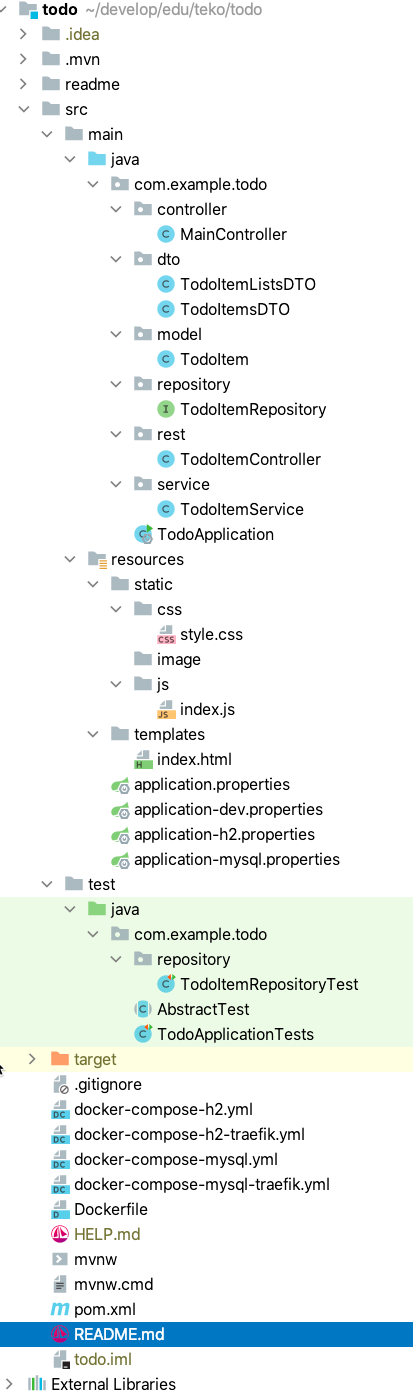
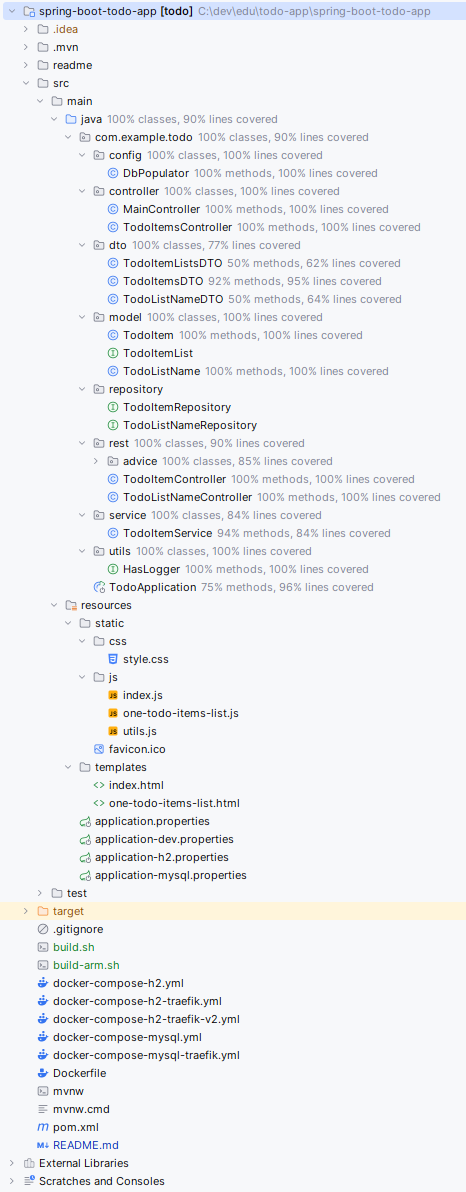
add new project structure update the introduction of the readme

Changed region(s): [[0.0, 0.0, 1.0, 1.0]]

diff --git a/README.md b/README.md
@@ -1,6 +1,131 @@
-# Todo App Spring Boot Thymeleaf REST jQuery
+# Spring Boot To-Do List Application
 
-A single page application by using JSON with jQuery.
+## Overview
+
+This is a Spring Boot MVC application for managing To-Do lists and their items. The frontend is implemented using Thymeleaf and jQuery, while the backend exposes a REST API for managing To-Do lists and items.
+
+## Features
+
+- **To-Do List Management:**
+    - Create, rename, and delete To-Do lists.
+    - View all To-Do lists on the main page.
+- **To-Do Item Management:**
+    - View, add, edit, and delete items within a selected To-Do list.
+    - Toggle the completion status of items.
+- **Navigation:**
+    - Click on a To-Do list to navigate to its items page.
+    - A back button allows returning to the main page.
+- **Testing:**
+    - Comprehensive unit tests for controllers and services.
+
+## Technologies Used
+
+- **Backend:** Spring Boot, Spring MVC, Spring Data JPA
+- **Frontend:** Thymeleaf, jQuery, HTML, CSS
+- **Database:** H2 (in-memory, for development/testing)
+- **API Specification:** OpenAPI
+- **Testing:** JUnit, Mockito
+- **Containerization:** Docker
+
+## Installation
+
+### Prerequisites
+
+- Java 17+
+- Maven 3.8+
+- Docker (for containerized deployment)
+
+### Step 1: Clone the Repository
+
+```sh
+git clone https://github.com/mbachmann/spring-boot-todo-app.git
+cd spring-boot-todo-app
+```
+
+### Step 2: Build the Backend
+
+Compile and package the Spring Boot application:
+
+```sh
+mvn clean install
+```
+
+Run the application locally:
+
+```sh
+mvn spring-boot:run
+```
+
+The application will start on `http://localhost:8080/`.
+
+### Step 3: Build the Frontend
+
+The frontend is integrated with Thymeleaf templates and does not require a separate build step. Ensure the application is running, and access it via the browser at `http://localhost:8080/`.
+
+### Step 4: Run Tests
+
+Execute unit tests using:
+
+```sh
+mvn test
+```
+
+### Step 5: Deploy with Docker
+
+To build and run the application in a Docker container:
+
+```sh
+docker build -t spring-boot-todo-app .
+docker run -p 8080:8080 spring-boot-todo-app
+```
+
+## Usage
+
+### Main Page (`index.html`)
+
+- Displays all To-Do lists.
+- Buttons to create, rename, and delete To-Do lists.
+- Clicking a list navigates to its items page.
+
+### To-Do Items Page (`todo-items.html`)
+
+- Displays all items of a selected To-Do list.
+- Options to add, edit, delete, and mark items as done.
+- Back button to return to the main page.
+
+## API Endpoints
+
+### To-Do Lists
+- `GET /api/v1/todolist-names` - Retrieve all To-Do list names.
+- `GET /api/v1/todolist-names/{id}` - Retrieve a specific To-Do list name.
+- `POST /api/v1/todolist-names` - Create a new To-Do list name.
+- `PUT /api/v1/todolist-names/{id}` - Rename a To-Do list name.
+- `DELETE /api/v1/todolist-names/{id}` - Delete a To-Do list name.
+
+### To-Do Items
+- `GET /api/v1/todo-items/item/{itemId}` - Retrieve a specific item.
+- `GET /api/v1/todo-items/list/{listId}` - Retrieve items of a list.
+- `GET /api/v1/todo-items/listids` - Retrieve all To-Do list IDs.
+- `GET /api/v1/todo-items/list` - Retrieve all To-Do lists.
+- `POST /api/v1/todo-items/new` - Add a new item.
+- `PUT /api/v1/todo-items/edit` - Edit an item.
+- `DELETE /api/v1/todo-items/delete/{id}` - Delete an item.
+- `PUT /api/v1/todo-items/state/{id}` - Toggle an item's completion status.
+
+## Contribution
+
+Contributions are welcome! Please fork the repository and create a pull request with your improvements.
+
+## License
+
+This project is licensed under the MIT License.
+
+## Author
+
+Maintained by [mbachmann](https://github.com/mbachmann).
+
+
+
 
 Content
 
@@ -52,7 +177,7 @@ _Spring Initializr_ generates a valid project structure with the following files
 - An empty _JUnit_ test class.
 - An empty Spring application configuration file: _application.properties_
 
-Choose Java SDK (can 8, 11, 14, etc):
+Choose Java SDK (can be 17, 21, etc):
 
 <br/>
 
@@ -78,14 +203,76 @@ Add the following libraries to the _pom.xml_ file:
      <!-- Open API  -->
   <dependency>
     <groupId>org.springdoc</groupId>
-    <artifactId>springdoc-openapi-ui</artifactId>
-    <version>1.6.8</version>
+    <artifactId>springdoc-openapi-starter-webmvc-ui</artifactId>
+    <version>2.8.5</version>
   </dependency>
   <dependency>
     <groupId>mysql</groupId>
     <artifactId>mysql-connector-java</artifactId>
-    <version>8.0.29</version>
+    <version>8.0.33</version>
   </dependency>
+```
+
+For the testing we need the ability for creating Mocks. We have to add Mockito the _pom.xml_:
+
+```xml
+  <dependency>
+    <groupId>org.mockito</groupId>
+    <artifactId>mockito-core</artifactId>
+    <scope>test</scope>
+  </dependency>
+```
+
+Mockito requires a plugin:
+
+```xml
+<plugin>
+  <groupId>org.apache.maven.plugins</groupId>
+  <artifactId>maven-surefire-plugin</artifactId>
+  <configuration>
+    <argLine>
+      -javaagent:${settings.localRepository}/org/mockito/mockito-core/${mockito.version}/mockito-core-${mockito.version}.jar
+      -Xshare:off
+    </argLine>
+  </configuration>
+</plugin>
+```
+
+For the extraction of version information we need 2 more plugins:
+
+```xml
+<plugin>
+  <groupId>org.codehaus.mojo</groupId>
+  <artifactId>buildnumber-maven-plugin</artifactId>
+  <version>3.0.0</version>
+  <executions>
+    <execution>
+      <phase>validate</phase>
+        <goals>
+          <goal>create</goal>
+       </goals>
+    </execution>
+  </executions>
+</plugin>
+<plugin>
+  <groupId>org.apache.maven.plugins</groupId>
+  <artifactId>maven-resources-plugin</artifactId>
+  <version>3.3.1</version>
+  <executions>
+    <execution>
+      <id>filter-resources</id>
+      <phase>process-resources</phase>
+      <goals>
+        <goal>resources</goal>
+      </goals>
+      <configuration>
+        <filters>
+          <filter>src/main/resources/version.properties</filter>
+        </filters>
+      </configuration>
+    </execution>
+   </executions>
+</plugin>
 ```
 
 **Do not forget the maven refresh!!**
@@ -100,7 +287,7 @@ The spring-boot plugin allows to start the project.
 
 ## The project structure
 
-The structure of the project consists of files for the backend in main/java and files for the web application
+The final structure of the project consists of files for the backend in main/java and files for the web application
 in resources folder. The project has beside the basic profile three additional spring profiles (dev, h2 and mysql).
 The _Dockerfile_ allows you to create a deployable container. The docker-compose files are demonstrating how to configure
 and orchestrate the containers.
@@ -735,23 +922,22 @@ user gets its onw list.
 
 In controllers folder, adding MainController.java.
 
-
 ```java
 import java.util.UUID;
+
 import org.springframework.stereotype.Controller;
 import org.springframework.web.bind.annotation.*;
 import org.springframework.ui.Model;
 
 @Controller
 public class MainController {
-    @RequestMapping(value = { "/", "/index" }, method = RequestMethod.GET)
-    public String index(Model model)
-    {
-        // When people visit site, create an UUID for a list and return it.
-        UUID uuid = UUID.randomUUID();
-        model.addAttribute("listId", uuid.toString());
-        return "index";
-    }
+  @RequestMapping(value = {"/", "/index"}, method = RequestMethod.GET)
+  public String index(Model model) {
+    // When people visit site, create an UUID for a list and return it.
+    UUID uuid = UUID.randomUUID();
+    model.addAttribute("listId", uuid.toString());
+    return "index-template";
+  }
 }
 
 ```
